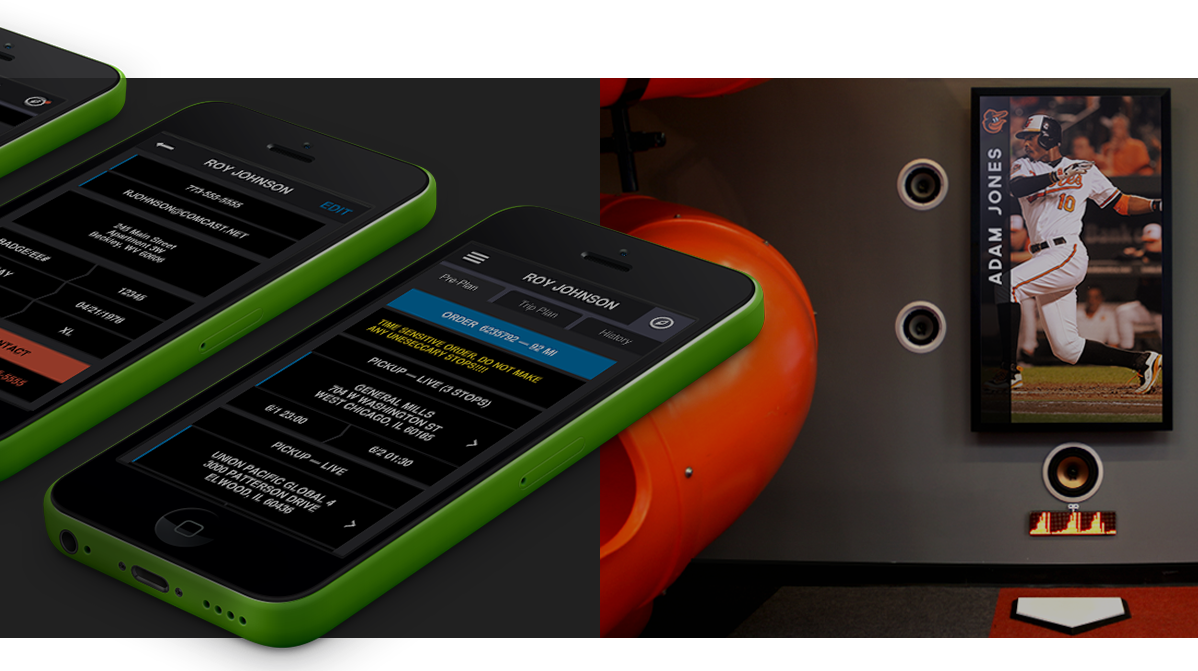
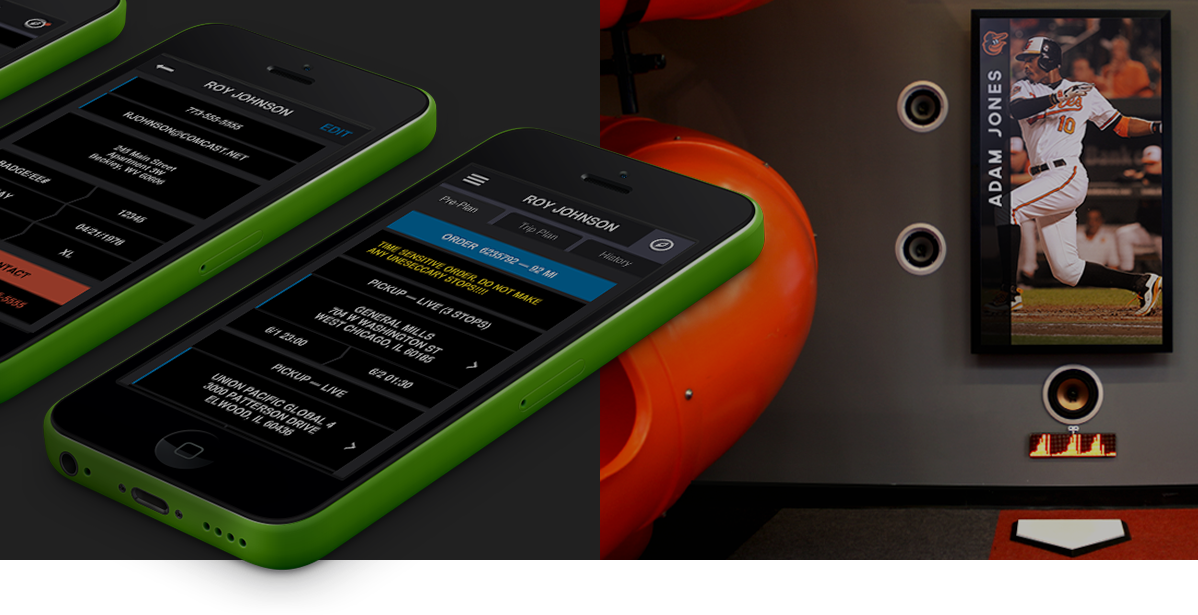
new assets + fixes

diff --git a/css/style-desktop.css b/css/style-desktop.css
@@ -130,6 +130,9 @@ hr{
 .text-45x{
 	font-size: 45px;
 }
+.text-65x{
+	font-size: 50px;
+}
 .text-165x{/**/
 	font-size: 165px;
 	line-height: 165px;
@@ -144,7 +147,7 @@ hr{
    1E.BACKGROUND-DESKTOP
 ========================================================== */
 .bg-black{
-	background-color: #000;
+	background-color: #1b1b1b;
 }
 .bg-test{
 	background-color: #3df;
@@ -290,7 +293,7 @@ border-right-width: 2px;
    2.BACKGROUND-DESKTOP
 =========================================================== */
 #work-page {
-	background-color: #000;
+	background-color: #1b1b1b;
 }
 #work-page #project-0 {
 	width:100%;
@@ -380,7 +383,7 @@ border-right-width: 2px;
 }
 .project-2-text{
 	margin-left:4%;
-	margin-top: 45%;
+	margin-top: 38%;
 	font-size: 65px;
 	line-height: 65px;
 }
@@ -390,17 +393,16 @@ border-right-width: 2px;
 }
 .project-2b-text{
 	margin-left:4%;
-	margin-top: 57%;
+	margin-top: 51%;
 	font-size: 65px;
 	line-height: 65px;
 }
 #work-page #project-3 {
 	width:100%;
 	height:950px;
-	margin-top: -8%;
 	background: 
-   url(../images/hub.png) 0 0/100% 65% no-repeat,
-   url(../images/crains.png) 0 560px/100% 42% no-repeat;
+   url(../images/hub.png) 0 0/100% 62% no-repeat,
+   url(../images/crains.png) 0 530px/100% 45% no-repeat;
 	 
   opacity: 1;
   /*opacity: 0.45;
@@ -428,7 +430,7 @@ border-right-width: 2px;
 }
 #work-page #project-4 {
 	width:100%;
-	height: 402px;
+	height: 352px;
 	background: url(../images/alarm.png) no-repeat;;
 	  -webkit-background-size: cover;
 	  -moz-background-size: cover;
@@ -540,6 +542,7 @@ border-right-width: 2px;
 #work-page #project-7 {
 	width:100%;
 	height: 251px;
+	background-color: #1b1b1b;
 	background: url(../images/clients.png) 50% 50% no-repeat;;
 	  -webkit-background-size: cover;
 	  -moz-background-size: cover;

diff --git a/index.html b/index.html
@@ -206,7 +206,7 @@
       <div class="width-100p margin-center bg-white padding-top-bottom-7p">
         <div class="row margin-bottom-3p">
           <div class="col-md-12">
-            <h2> The Crew</h2>
+            <h2 class="text-65x"> the crew</h2>
           <!--end col-md-12--></div>
         <!--end row--></div>
         <div class="width-70p margin-center margin-left-3p">
